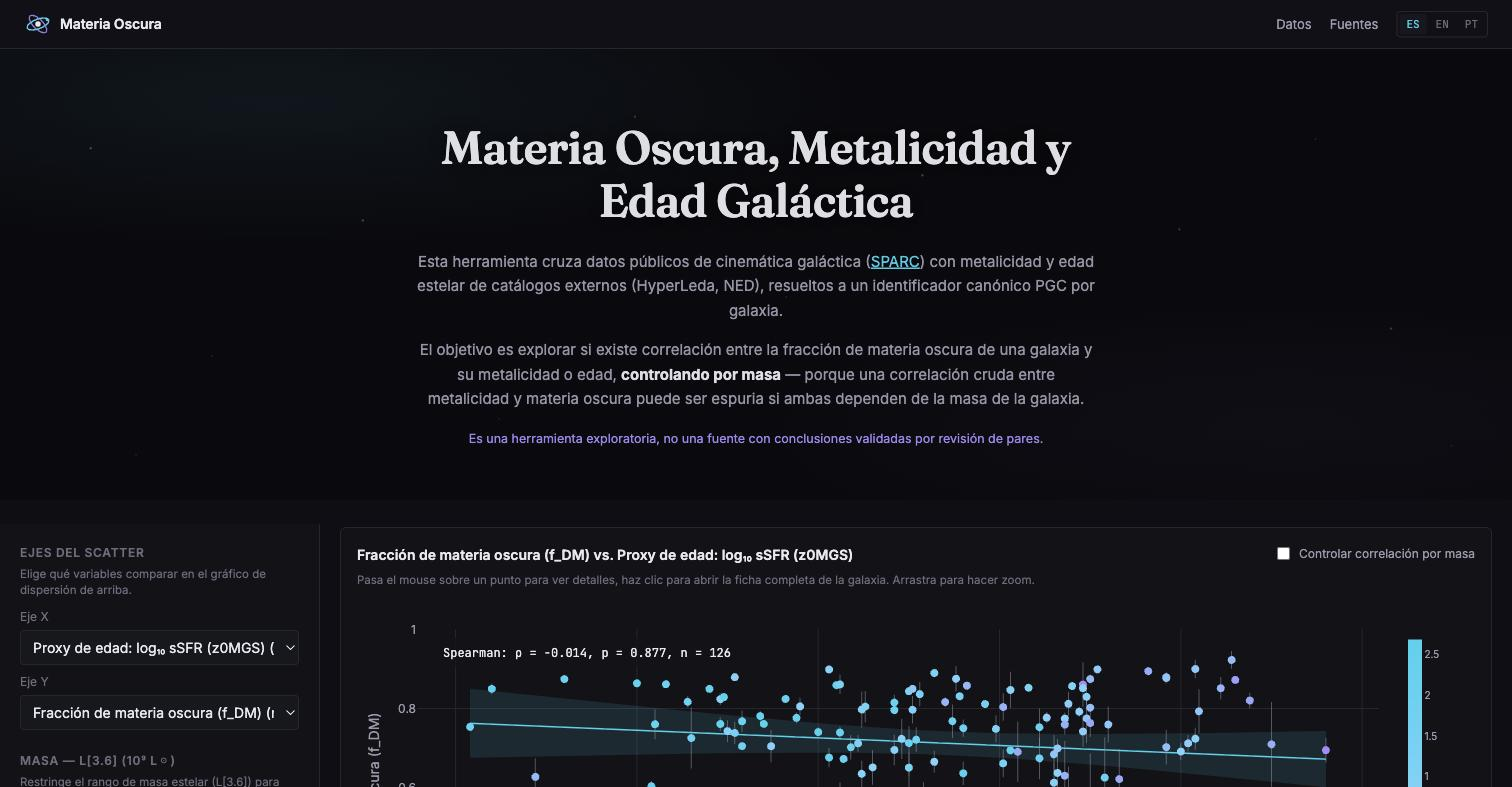
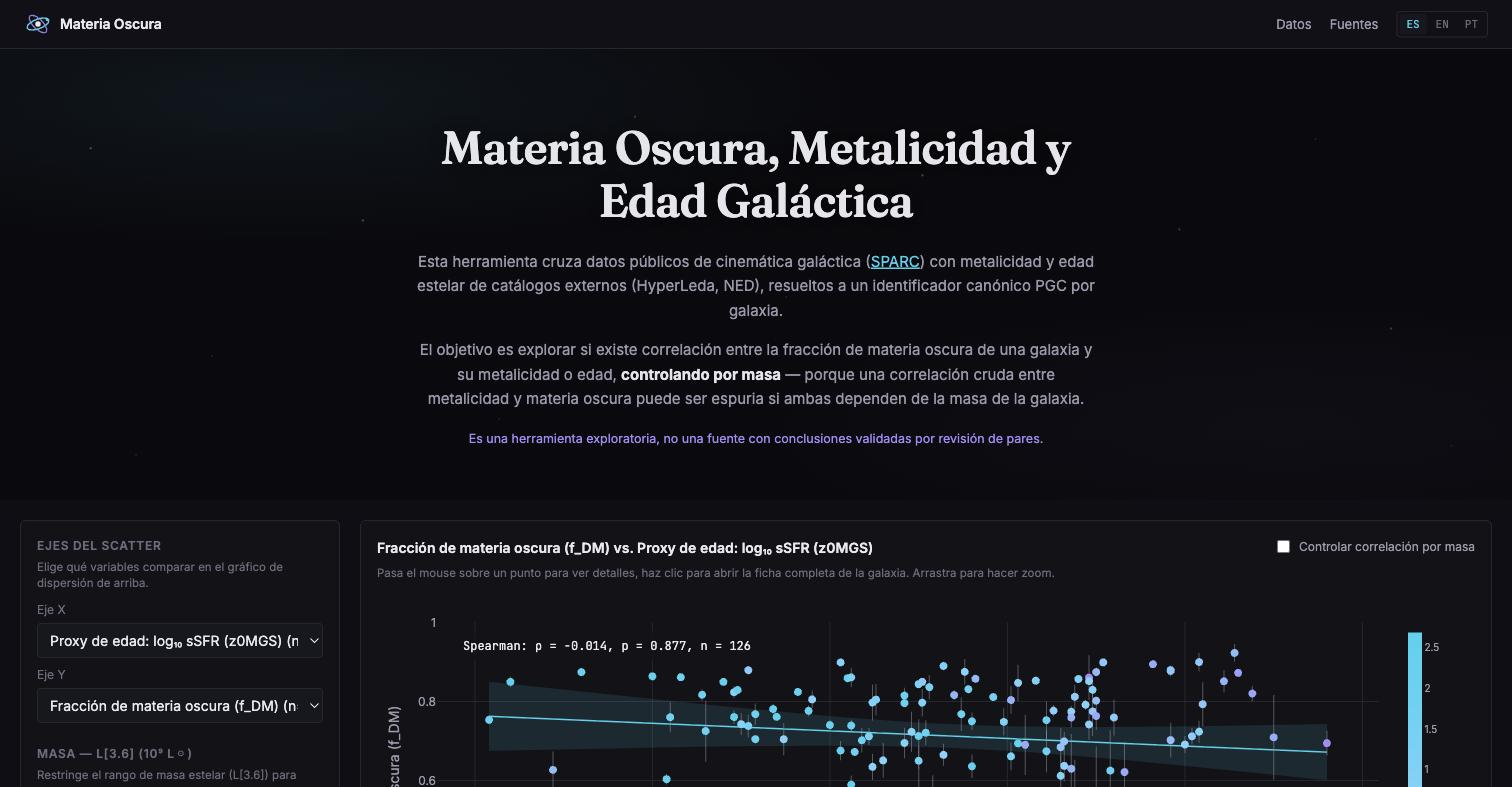
Make the filter sidebar its own bordered/rounded panel
The previous alignment fix matched the *text* inside the sidebar and
the first chart panel, but the sidebar's own box (a flat border-right
strip, no radius) still started 3px higher than the chart panel's box
(which has .main-content's padding-top before its border) -- visible
as a slight offset between the two visible edges, not just their
headings.

Restructured so both are real, comparable cards: .app-body now owns a
single 20px padding + 20px gap for the whole row, and .sidebar gets
the exact same border/border-radius/padding as .panel (1px border,
6px radius, 16px padding) instead of a bare border-right. Both cards
now start at the exact same Y with no compensating math needed.
.main-content no longer needs any padding of its own -- it's just a
flex column of .panel cards now that .app-body provides the outer
padding. .app-section's now-redundant padding-top (originally added
for breathing room after removing its title) is removed too, since
.app-body's own 20px already provides that space. On mobile, the
sidebar's full-screen drawer explicitly drops the border-radius so it
reads as a proper full-bleed panel rather than a floating rounded box.

diff --git a/frontend/src/styles.css b/frontend/src/styles.css
@@ -72,7 +72,6 @@ a {
   flex: 1;
   min-height: 0;
   background: var(--bg-section);
-  padding-top: 24px;
 }
 
 .section-title {
@@ -87,17 +86,13 @@ a {
   display: flex;
   flex: 1;
   min-height: 0;
+  gap: 20px;
+  padding: 20px;
 }
 
 .main-content {
   flex: 1;
   min-width: 0;
-  /* Top padding is 3px, not 20px like the other sides: the first child is
-     always a .panel, which already has its own 1px border + 16px padding
-     before its heading -- 3 + 1 + 16 = 20px, so the panel's h2 lands at
-     the exact same Y as the sidebar's first heading (sidebar has no such
-     nested card, so its flat 20px padding reaches its heading directly). */
-  padding: 3px 20px 20px;
   display: flex;
   flex-direction: column;
   gap: 20px;
@@ -305,9 +300,14 @@ a {
 .sidebar {
   width: var(--sidebar-width);
   flex-shrink: 0;
-  border-right: 1px solid var(--border);
+  /* Same border/radius/padding as .panel, so the sidebar reads as a card
+     next to the chart cards instead of a plain full-height strip -- both
+     now sit inside .app-body's own padding, so their top edges align
+     exactly regardless of what's inside either one. */
+  border: 1px solid var(--border);
+  border-radius: 6px;
   background: var(--bg-panel);
-  padding: 20px;
+  padding: 16px;
   overflow-y: auto;
 }
 
@@ -326,7 +326,11 @@ a {
     inset: 0 15% 0 0;
     z-index: 40;
     width: auto;
+    /* Full-bleed drawer on mobile -- undo the desktop card look (rounded
+       corners read oddly on a full-height slide-out panel). */
+    border: none;
     border-right: 1px solid var(--border);
+    border-radius: 0;
   }
 
   .sidebar.sidebar--open {
